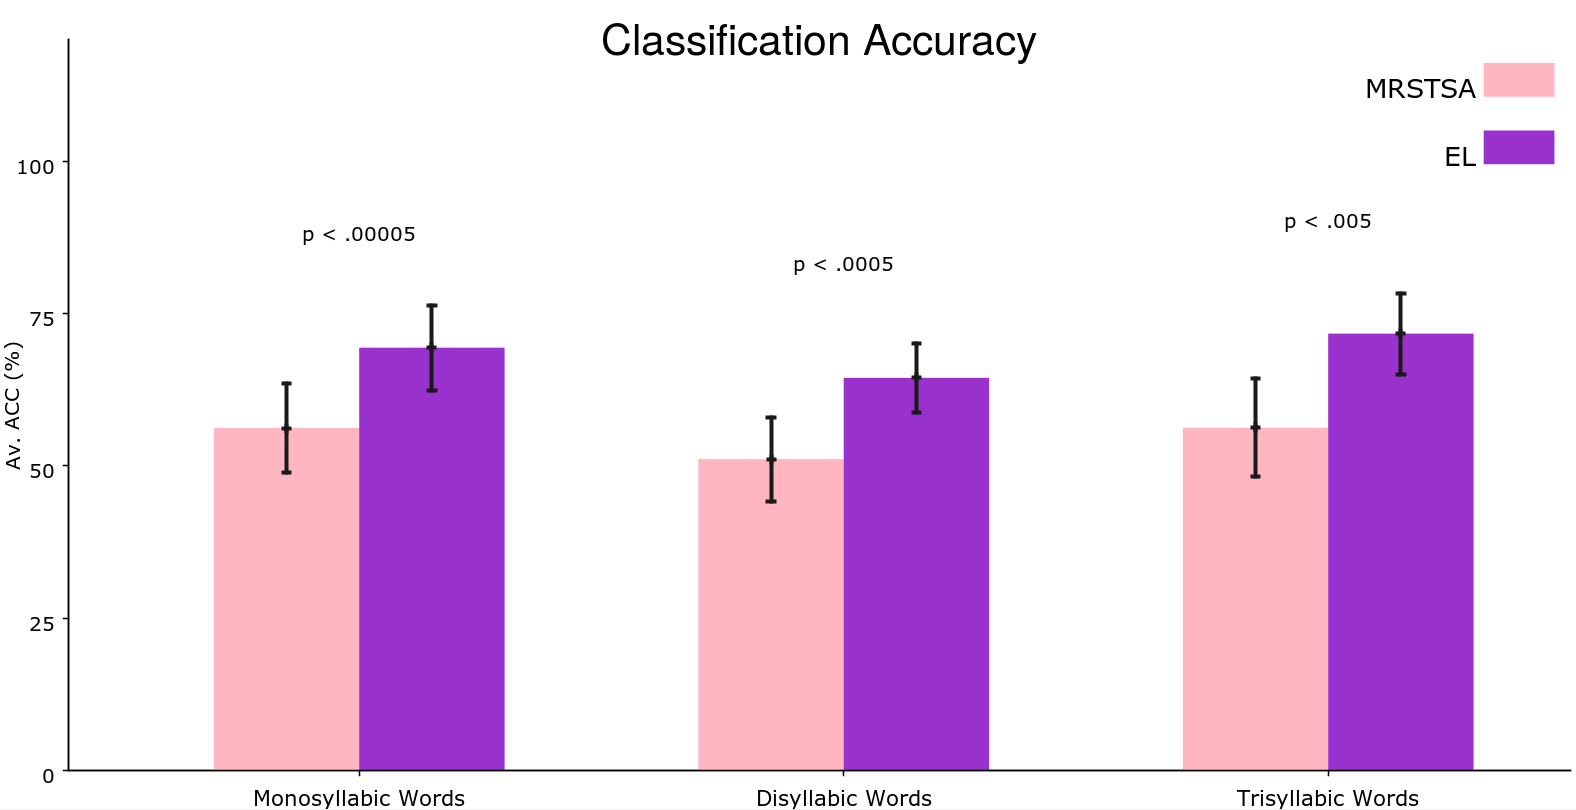
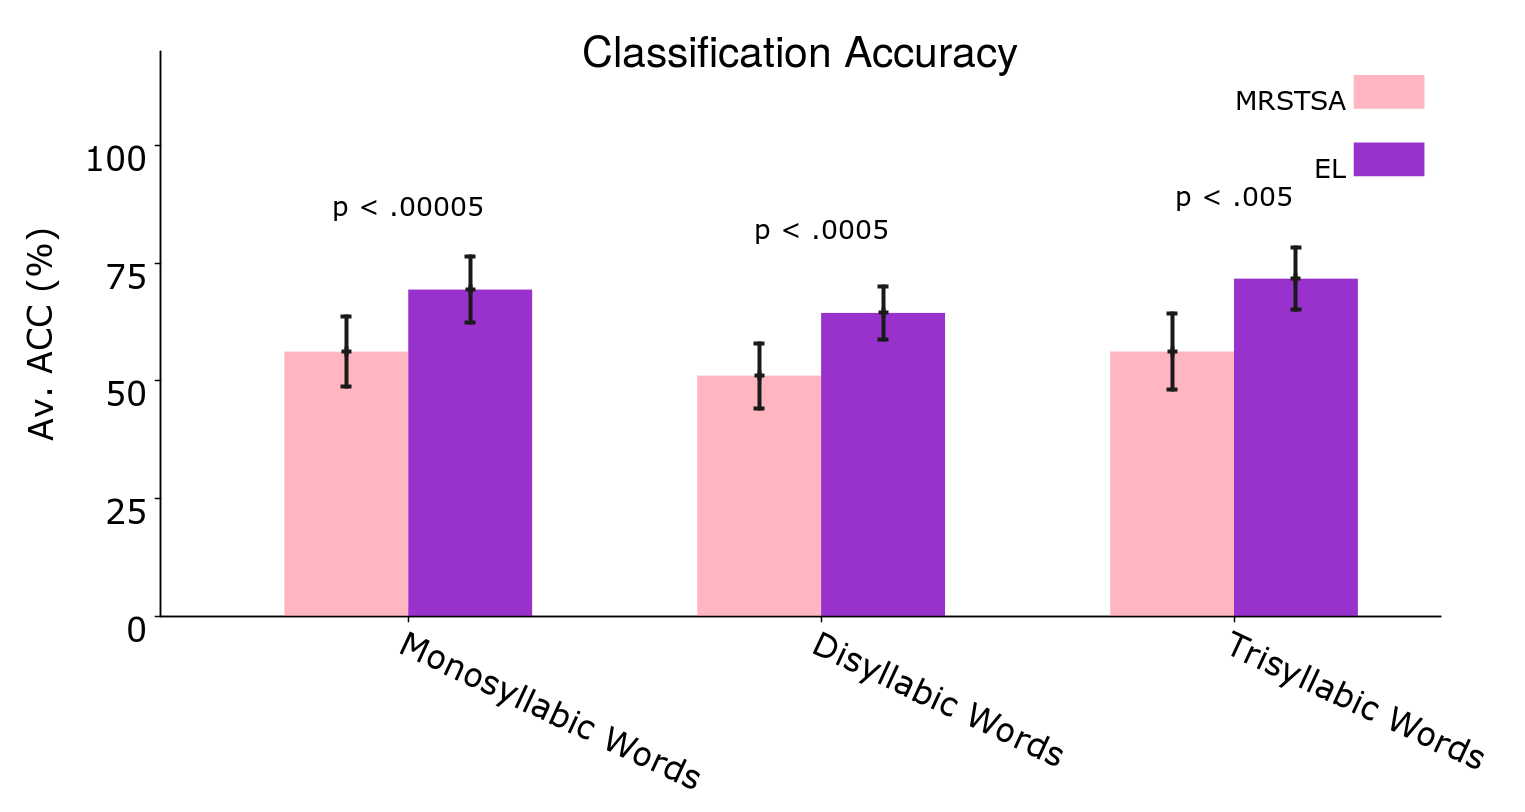
Fixing font size and axis configurations on bar plots

diff --git a/plos_latex_template.tex b/plos_latex_template.tex
@@ -1340,11 +1340,11 @@ The classification performances are shown in Fig. \ref{fig:PLOT}.
 \begin{figure}[h!]
     \centering
     \includegraphics[width=0.9\textwidth]{PLOT.png}
-    \caption{\tiny{\gls{mrstsa} and \gls{el} average classification accuracies against different \textcolor{red}{acoustic variants} introduced to the signals
+    \caption{\gls{mrstsa} and \gls{el} average classification accuracies against different \textcolor{red}{acoustic variants} introduced to the signals
     for monosyllabic, disyllabic and trisyllabic words.
     White Noise 1 determines a \gls{snr} average \gls{rms} power rate of 19.8 dB while White Noise 2 13.8 dB.
     Reverberation 30\% determines a \gls{rt} value of 0.61 seconds while Reverberation 60\% determines a \gls{rt} value of 1.78 seconds.
-    Pitch Up determines a pitch move from E to G, while Pitch Down determines a pitch move from E to C. Changed Voices corresponds to corpora generated using a different set of voices from the one used to train the \glspl{el} and the classifiers. \textcolor{red}{Error bars depict Standard Error values. The \emph{p} values correspond to one-tailed paired t-tests and NS stands for Not Statistically Significant.}}}
+    Pitch Up determines a pitch move from E to G, while Pitch Down determines a pitch move from E to C. Changed Voices corresponds to corpora generated using a different set of voices from the one used to train the \glspl{el} and the classifiers. \textcolor{red}{Error bars depict Standard Error values. The \emph{p} values correspond to one-tailed paired t-tests and NS stands for Not Statistically Significant.}}
     \label{fig:PLOT}
 \end{figure}
 
